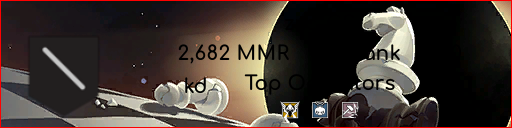
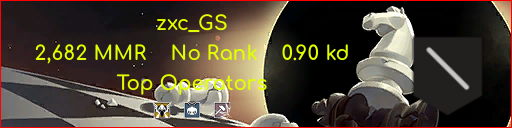
web cosmetics

diff --git a/source/views/index.js b/source/views/index.js
@@ -1,3 +1,5 @@
+// #region Variables
+
 const SETTINGS = document.querySelector('.settings');
 const PREVIEW = document.querySelector('.preview');
 const LIBRARY = document.querySelector('.library');
@@ -15,6 +17,8 @@ const COLOR_PICKER = document.querySelectorAll(".color_picker");
 const CHECKBOX_HIDE = document.querySelectorAll('.checkbox_hide');
 
 let params;
+
+// #endregion
 
 // #region Listeners
 
@@ -106,8 +110,6 @@ async function Load_Config()
 
 async function Create_Preview()
 {
-    console.log('Creating Preview');
-
     const bage_settings = params.bage;
     
     // Просто установка value не поменяет фон родителя, а если просто поменять фон родителя, то при нажатии сохранить без изменении могут быть ошибки с фоном в конфиге
@@ -117,20 +119,20 @@ async function Create_Preview()
     
     if (bage_settings.bage_border !== "transparent") {
         let color = bage_settings.bage_border;
-        BORDER_CHECKBOX.click();
         BORDER_COLOR_INPUT.value = color;
         BORDER_COLOR_INPUT.closest('.color_picker_wrapper').style.backgroundColor = color;
         PREVIEW.querySelector('.img > img').style.border = `2px solid ${color}`;
         BORDER_COLOR_INPUT.closest('.hide_toggle').classList.remove('hide_toggle');
+        BORDER_CHECKBOX.click();
     }
     
     if (bage_settings.text_border !== "transparent") {
         let color = bage_settings.text_border;
-        TEXT_OUTLINE_CHECKBOX.click();
         TEXT_OUTLINE_COLOR_INPUT.value = color;
         TEXT_OUTLINE_COLOR_INPUT.closest('.color_picker_wrapper').style.backgroundColor = color;
         PREVIEW.querySelector('.user_info').style.textShadow = `2px 0 0 ${color}, -2px 0 0 ${color}, 0 2px 0 ${color}, 0 -2px 0 ${color}, 1px 1px 0 ${color}, 1px -1px 0 ${color}, -1px 1px 0 ${color}, -1px -1px 0 ${color}`;
         TEXT_OUTLINE_COLOR_INPUT.closest('.hide_toggle').classList.remove('hide_toggle');
+        TEXT_OUTLINE_CHECKBOX.click();
     }
 
     if (bage_settings.rank_image_side === "left") {
@@ -165,9 +167,14 @@ function Save_Data()
 {
     console.log(params);
     // ! Заменить, т.к. в строке больше нет данных параметров
-    if (!("q" in params))
+    if (!("uplay_name" in params))
         return;
     this.innerText = "Сохранено";
+    this.classList.add('saved');
+    setTimeout(() => {
+        this.innerText = "Сохранить";
+        this.classList.remove('saved');
+    }, 1000);
     
     let xhr = new XMLHttpRequest();
     xhr.open("POST", '/save');

diff --git a/modules/statistics.js b/modules/statistics.js
@@ -157,7 +157,7 @@ async function Make_Canvas(stats, CURRENT_GUILD)
         ctx.lineWidth = 2;
         await ctx.strokeRect(0, 0, width, height);
         // Обводка текста
-        ctx.lineWidth = 1;
+        ctx.lineWidth = 3;
         ctx.strokeStyle = await CURRENT_GUILD.players.find(p => p.uplay_name == stats.name).bage.text_border || "transparent";
         await ctx.strokeText(name, (width - rank_image_size ) / 2 - ctx.measureText(name).width / 2, 30);
         await ctx.strokeText(statistic, (width - rank_image_size) / 2 - ctx.measureText(statistic).width / 2, 60);
@@ -238,7 +238,7 @@ async function Make_Gif(stats, CURRENT_GUILD)
         ctx.lineWidth = 2;
         await ctx.strokeRect(0, 0, width, height);
         // Обводка текста
-        ctx.lineWidth = 1;
+        ctx.lineWidth = 3;
         ctx.strokeStyle = await CURRENT_GUILD.players.find(p => p.uplay_name == stats.name).bage.text_border || "transparent";
         await ctx.strokeText(name, (width - rank_image_size ) / 2 - ctx.measureText(name).width / 2, 30);
         await ctx.strokeText(statistic, (width - rank_image_size) / 2 - ctx.measureText(statistic).width / 2, 60);

diff --git a/source/views/style.css b/source/views/style.css
@@ -13,7 +13,7 @@
     font-family: Comfortaa;
 }
 ::-webkit-scrollbar {
-    width: 10px;
+    width: 6px;
 }
 
 /* Track */
@@ -218,6 +218,10 @@ img {
 #save_btn:hover {
     box-shadow: 0 -2px 10px #ed0200,
                 0 2px 10px #d50082;
+}
+#save_btn.saved {
+    box-shadow: 0 -2px 20px #ed0200,
+    0 2px 20px #d50082;
 }
 .library .container {
     padding: 10px 10px 15px;

diff --git a/modules/server.js b/modules/server.js
@@ -38,7 +38,7 @@ function Get_Preview_Background(params)
     }
     catch(err) {
         // console.log(err);
-        console.log('Error. Sending temp file...');
+        console.log('Error. Sending default background...');
         return 'ui_playercard_0.png';
     }
 }
